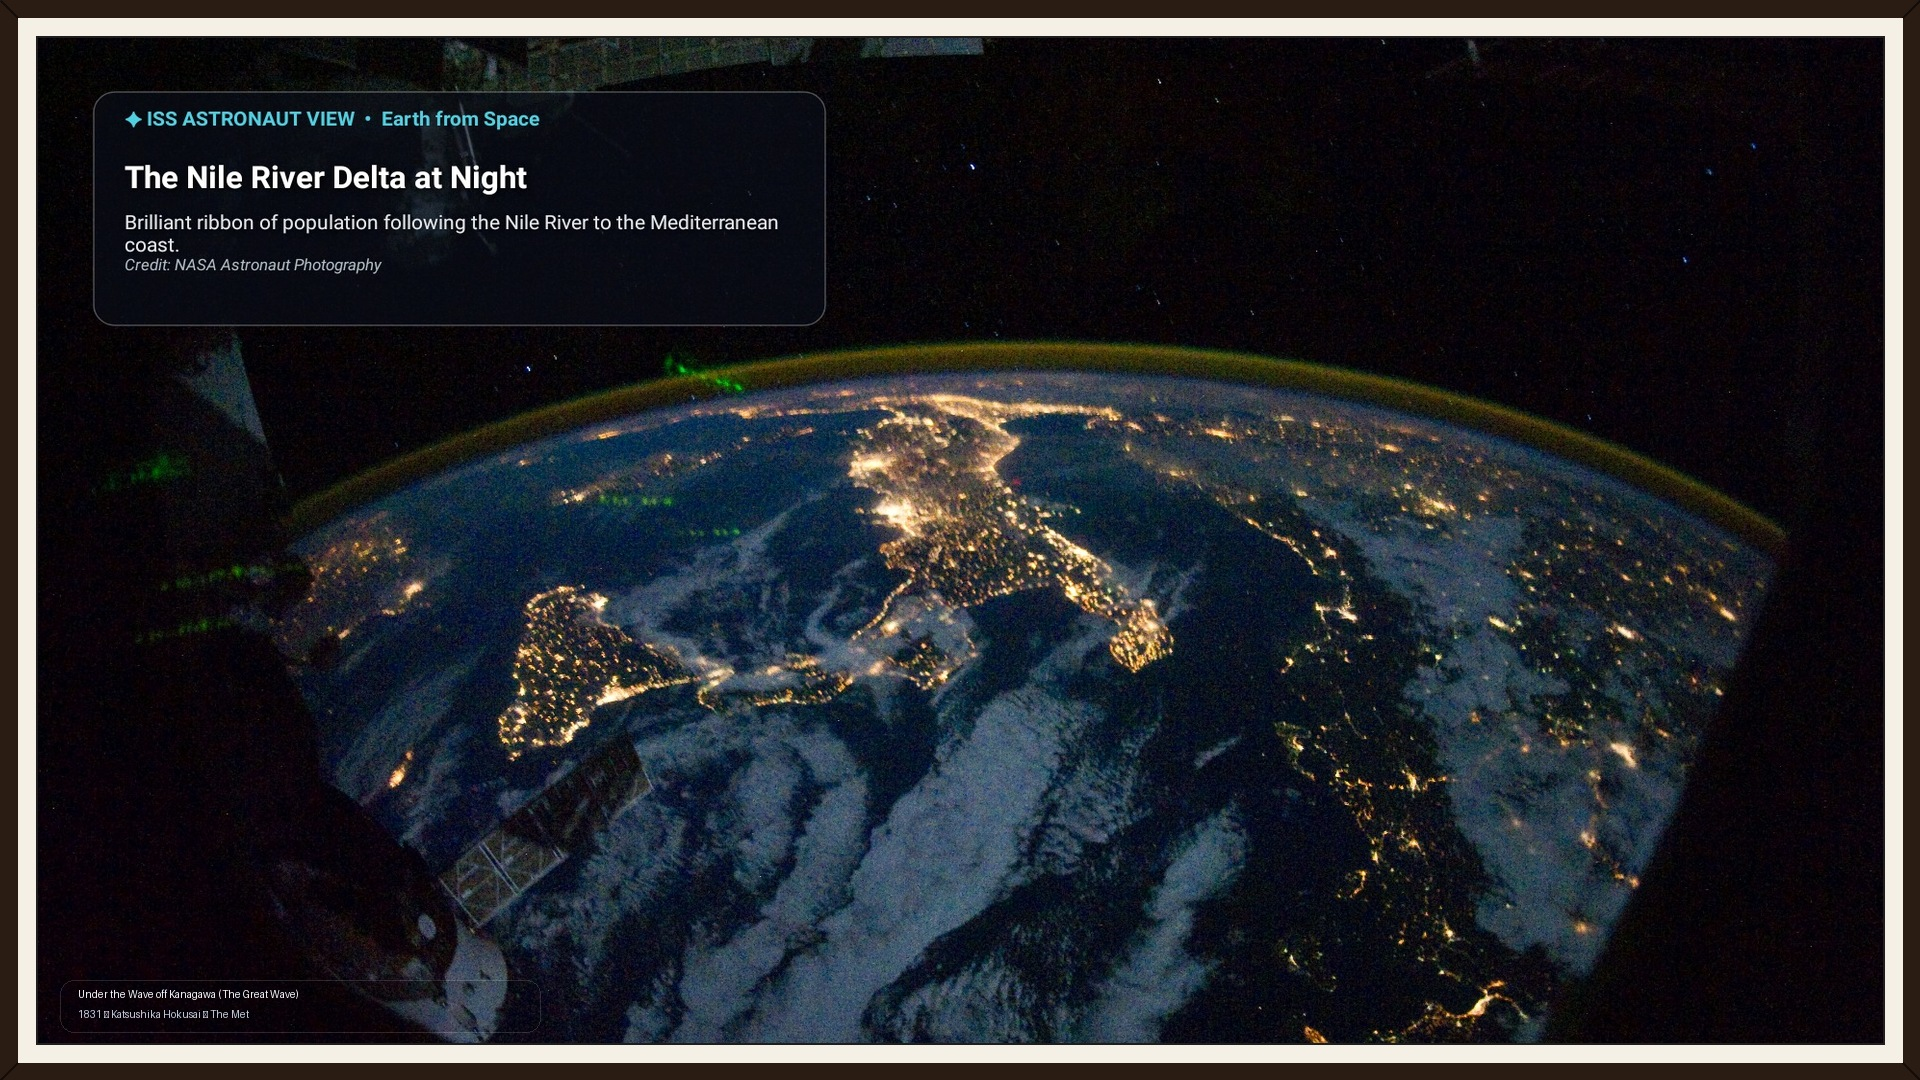
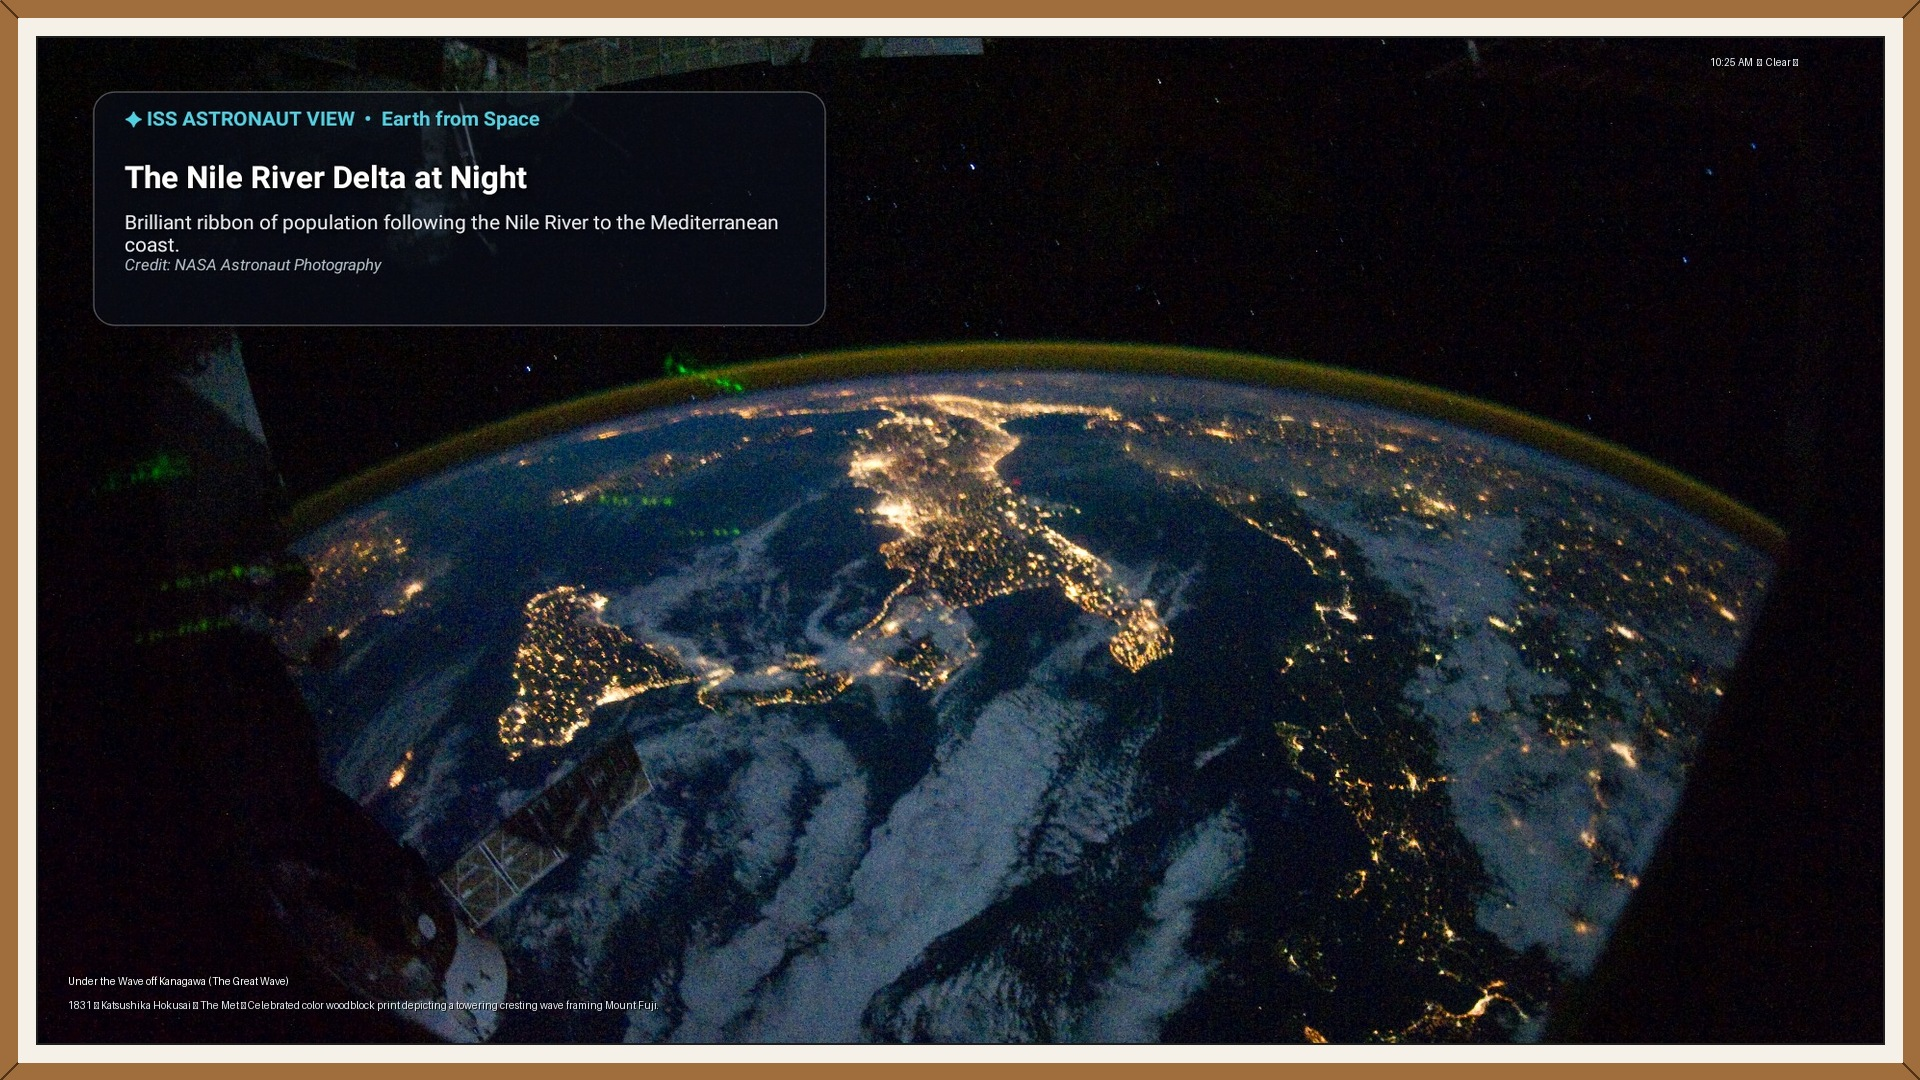
feat(v1.3.6): 100% floating typography (no opaque boxes) with rich picture descriptions

Changed region(s): [[0.0, 0.0, 1.0, 1.0]]

diff --git a/app/src/main/java/com/astroframe/tv/graphics/ImageProcessor.kt b/app/src/main/java/com/astroframe/tv/graphics/ImageProcessor.kt
@@ -155,11 +155,11 @@ class ImageProcessor(private val context: Context) {
     ) {
         if (position == OverlayPosition.NONE) return
 
-        // High-end Gallery Minimalist Floating Pill (Whisper-light 10% translucent glass)
-        val pillWidth = 580f
-        val pillHeight = 110f
-        val marginX = 54f
-        val marginY = 46f
+        // 100% Floating Gallery Typography (Zero Opaque Box, Pure Art Immersion)
+        val textWidth = 860
+        val marginX = 64f
+        val marginY = 56f
+        val blockHeight = 130f
 
         val left: Float
         val top: Float
@@ -170,55 +170,35 @@ class ImageProcessor(private val context: Context) {
                 top = marginY
             }
             OverlayPosition.TOP_RIGHT -> {
-                left = CANVAS_WIDTH - pillWidth - marginX
+                left = CANVAS_WIDTH - textWidth - marginX
                 top = marginY
             }
             OverlayPosition.BOTTOM_LEFT -> {
                 left = marginX
-                top = CANVAS_HEIGHT - pillHeight - marginY
+                top = CANVAS_HEIGHT - blockHeight - marginY
             }
             OverlayPosition.BOTTOM_RIGHT -> {
-                left = CANVAS_WIDTH - pillWidth - marginX
-                top = CANVAS_HEIGHT - pillHeight - marginY
+                left = CANVAS_WIDTH - textWidth - marginX
+                top = CANVAS_HEIGHT - blockHeight - marginY
             }
             OverlayPosition.NONE -> return
         }
 
-        val right = left + pillWidth
-        val bottom = top + pillHeight
+        var currentY = top
 
-        // Whisper-light 10% dark glass tint with delicate hairline border
-        val pillRect = RectF(left, top, right, bottom)
-        val pillPaint = Paint(Paint.ANTI_ALIAS_FLAG).apply {
-            color = Color.argb(32, 0, 0, 0)
-            style = Paint.Style.FILL
-        }
-        val borderPaint = Paint(Paint.ANTI_ALIAS_FLAG).apply {
-            color = Color.argb(40, 255, 255, 255)
-            style = Paint.Style.STROKE
-            strokeWidth = 1f
-        }
-
-        canvas.drawRoundRect(pillRect, 22f, 22f, pillPaint)
-        canvas.drawRoundRect(pillRect, 22f, 22f, borderPaint)
-
-        val textLeft = left + 26f
-        val contentWidth = (pillWidth - 52f).toInt()
-        var currentY = top + 42f
-
-        // 1. Artwork Title (Clean, elegant 24sp white with drop shadow for 100% legibility)
+        // 1. Artwork Title (Crisp white with studio drop shadow)
         val titlePaint = TextPaint(Paint.ANTI_ALIAS_FLAG).apply {
             color = Color.WHITE
-            textSize = 26f
+            textSize = 28f
             typeface = Typeface.create(Typeface.DEFAULT, Typeface.BOLD)
-            setShadowLayer(4f, 1f, 1f, Color.argb(220, 0, 0, 0))
+            setShadowLayer(6f, 1.5f, 1.5f, Color.argb(235, 0, 0, 0))
         }
         val titleLayout = StaticLayout.Builder.obtain(
             apod.title,
             0,
             apod.title.length,
             titlePaint,
-            contentWidth
+            textWidth
         )
             .setAlignment(Layout.Alignment.ALIGN_NORMAL)
             .setMaxLines(1)
@@ -226,20 +206,47 @@ class ImageProcessor(private val context: Context) {
             .build()
 
         canvas.save()
-        canvas.translate(textLeft, currentY)
+        canvas.translate(left, currentY)
         titleLayout.draw(canvas)
         canvas.restore()
-        currentY += titleLayout.height + 6f
+        currentY += titleLayout.height + 4f
 
-        // 2. Curated Subtitle (Date & Source Badge)
-        val subPaint = TextPaint(Paint.ANTI_ALIAS_FLAG).apply {
-            color = Color.parseColor("#CFD8DC")
-            textSize = 17f
+        // 2. Description Summary & Attribution (Elegant, subtle soft silver with drop shadow)
+        val descPaint = TextPaint(Paint.ANTI_ALIAS_FLAG).apply {
+            color = Color.parseColor("#E0E6ED")
+            textSize = 18f
             typeface = Typeface.create(Typeface.DEFAULT, Typeface.NORMAL)
-            setShadowLayer(3f, 1f, 1f, Color.argb(180, 0, 0, 0))
+            setShadowLayer(4f, 1.2f, 1.2f, Color.argb(220, 0, 0, 0))
         }
-        val subText = "${apod.date}  •  ${apod.sourceBadge}"
-        canvas.drawText(subText, textLeft, currentY + 18f, subPaint)
+
+        val credit = if (!apod.copyright.isNullOrBlank()) {
+            "${apod.sourceBadge} • ${apod.date} • ${apod.copyright.replace("\n", " ").trim()}"
+        } else {
+            "${apod.sourceBadge} • ${apod.date}"
+        }
+        val summary = apod.summaryExplanation
+        val combinedDesc = if (summary.isNotBlank() && !summary.equals(apod.title, ignoreCase = true)) {
+            "$credit — $summary"
+        } else {
+            credit
+        }
+
+        val descLayout = StaticLayout.Builder.obtain(
+            combinedDesc,
+            0,
+            combinedDesc.length,
+            descPaint,
+            textWidth
+        )
+            .setAlignment(Layout.Alignment.ALIGN_NORMAL)
+            .setMaxLines(2)
+            .setEllipsize(android.text.TextUtils.TruncateAt.END)
+            .build()
+
+        canvas.save()
+        canvas.translate(left, currentY)
+        descLayout.draw(canvas)
+        canvas.restore()
     }
 
     private fun saveBitmapToStorage(bitmap: Bitmap, date: String): File? {

diff --git a/app/src/main/java/com/astroframe/tv/screensaver/AstroDreamService.kt b/app/src/main/java/com/astroframe/tv/screensaver/AstroDreamService.kt
@@ -423,18 +423,23 @@ class AstroDreamService : DreamService() {
     }
 
     private fun updateTelemetryOverlay(file: File) {
-        val cleanName = file.nameWithoutExtension
-            .replace("current_wallpaper", prefs.lastTitle.ifBlank { "Deep Space Art" })
-            .replace("_", " ")
-
-        txtArtworkTitle.text = cleanName
-        txtArtworkSubtitle.text = prefs.artSource.label
-
-        txtTelemetryBadge.text = if (prefs.oledCareEnabled) {
-            "✦ 10-BIT WIDE GAMUT • OLED PIXEL-SHIFT ACTIVE"
+        val title = if (file.name.contains("current_wallpaper")) {
+            prefs.lastTitle.ifBlank { "AstroFrame Masterpiece" }
         } else {
-            "✦ 10-BIT HARDWARE DEPTH • THE FRAME MODE"
+            file.nameWithoutExtension.replace("_", " ")
         }
+
+        txtArtworkTitle.text = title
+
+        val dateAndSource = "${prefs.lastDate.ifBlank { "Archival" }} • ${prefs.artSource.badge}"
+        val explanation = prefs.lastExplanation
+        val combinedSubtitle = if (explanation.isNotBlank() && !explanation.equals(title, ignoreCase = true)) {
+            "$dateAndSource — $explanation"
+        } else {
+            dateAndSource
+        }
+
+        txtArtworkSubtitle.text = combinedSubtitle
 
         revealTelemetry()
     }

diff --git a/README.md b/README.md
@@ -12,8 +12,8 @@
 </p>
 
 <p align="center">
-  <a href="https://github.com/mandy321/AstroFrame/releases/latest/download/AstroFrame-v1.3.5.apk">
-    <img src="https://img.shields.io/badge/📥_DOWNLOAD_LATEST_APK-v1.3.5-success?style=for-the-badge&logo=android&logoColor=white&color=10B981" alt="Download APK" height="40">
+  <a href="https://github.com/mandy321/AstroFrame/releases/latest/download/AstroFrame-v1.3.6.apk">
+    <img src="https://img.shields.io/badge/📥_DOWNLOAD_LATEST_APK-v1.3.6-success?style=for-the-badge&logo=android&logoColor=white&color=10B981" alt="Download APK" height="40">
   </a>
   <a href="https://github.com/mandy321/AstroFrame/releases/latest">
     <img src="https://img.shields.io/badge/📦_ALL_RELEASES-GITHUB-blue?style=for-the-badge&logo=github&color=2563EB" alt="All Releases" height="40">
@@ -165,12 +165,12 @@ Target Directory on TV:
 
 | Release | Architecture | Direct Download Link | Release Page |
 | :--- | :--- | :--- | :--- |
-| **v1.3.5 (Latest)** | Android TV / Fire TV (Universal) | [**⬇ Download AstroFrame-v1.3.5.apk**](https://github.com/mandy321/AstroFrame/releases/latest/download/AstroFrame-v1.3.5.apk) | [Release Notes](https://github.com/mandy321/AstroFrame/releases/latest) |
+| **v1.3.6 (Latest)** | Android TV / Fire TV (Universal) | [**⬇ Download AstroFrame-v1.3.6.apk**](https://github.com/mandy321/AstroFrame/releases/latest/download/AstroFrame-v1.3.6.apk) | [Release Notes](https://github.com/mandy321/AstroFrame/releases/latest) |
 | **All Releases** | Archives & History | [Browse All Releases](https://github.com/mandy321/AstroFrame/releases) | — |
 
 #### Quick Install to TV via ADB:
 ```bash
-adb install -r AstroFrame-v1.3.5.apk
+adb install -r AstroFrame-v1.3.6.apk
 ```
 
 ---
